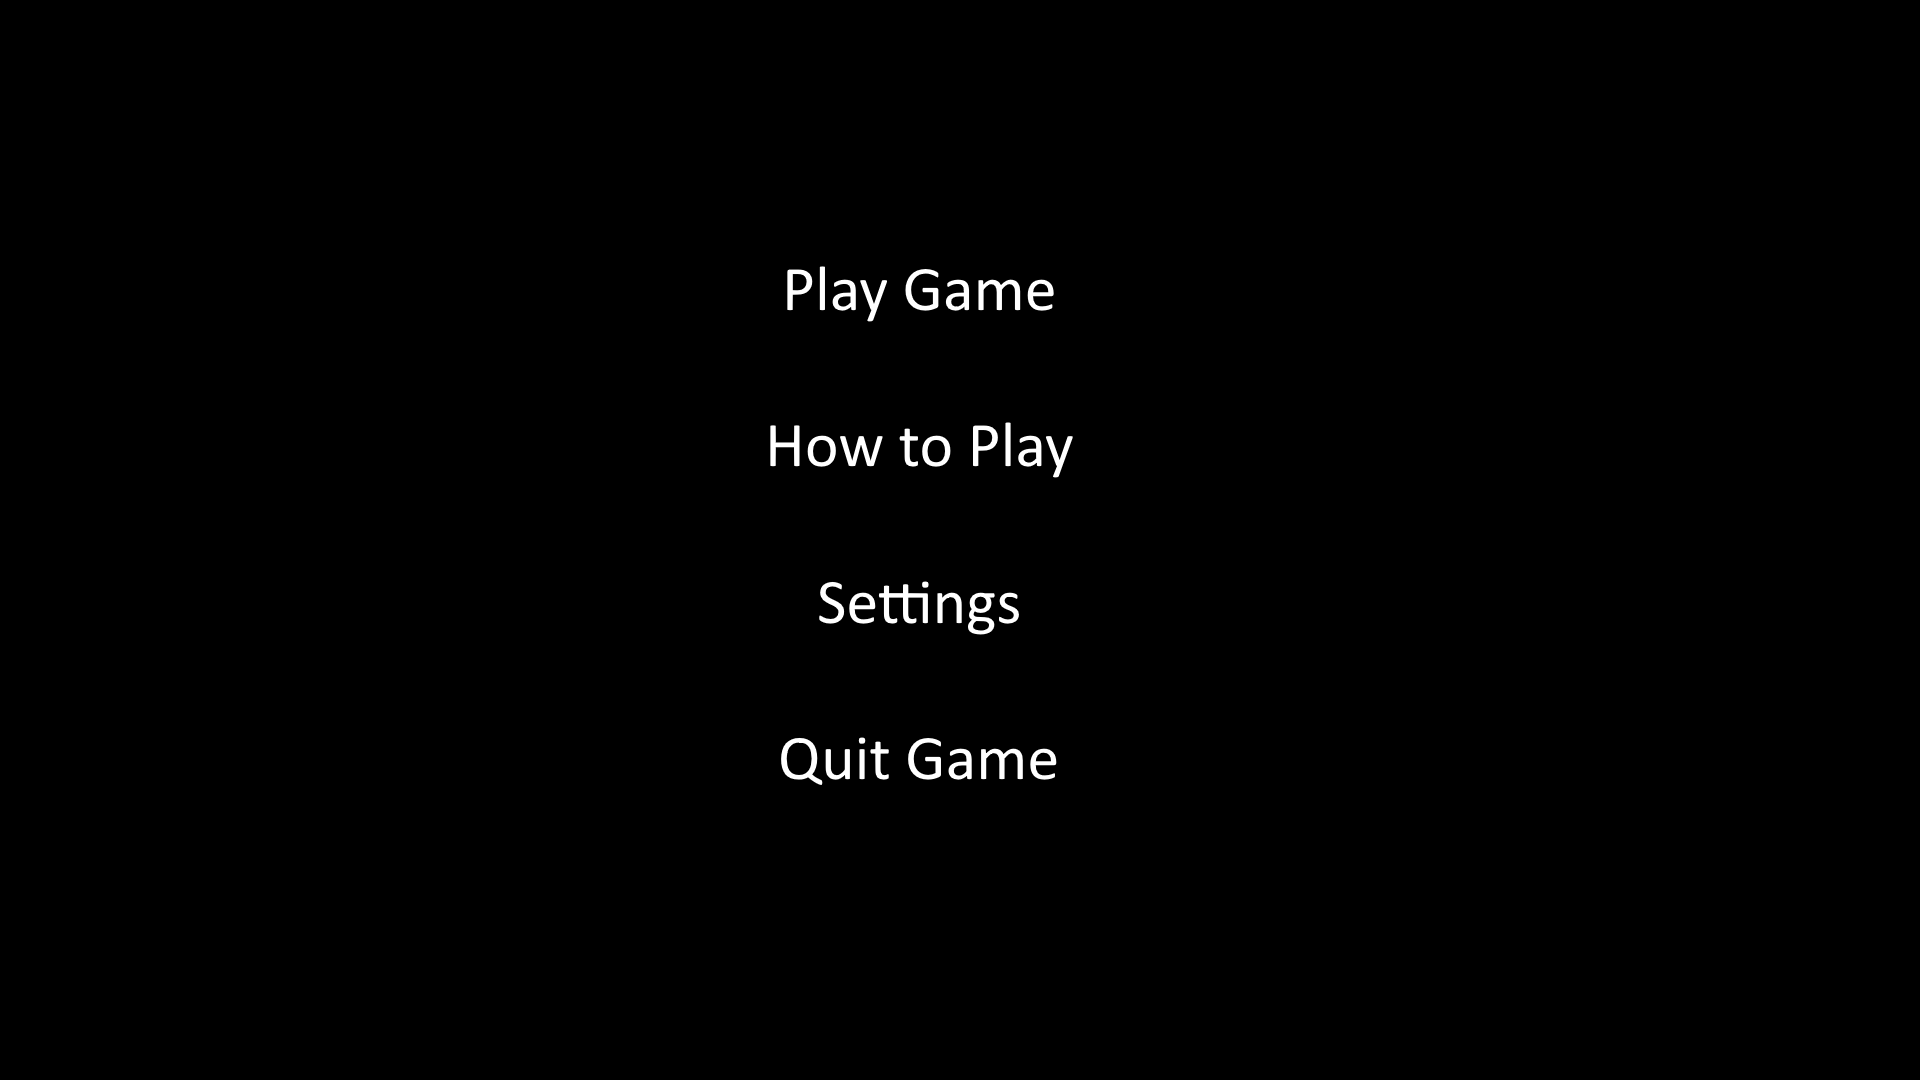
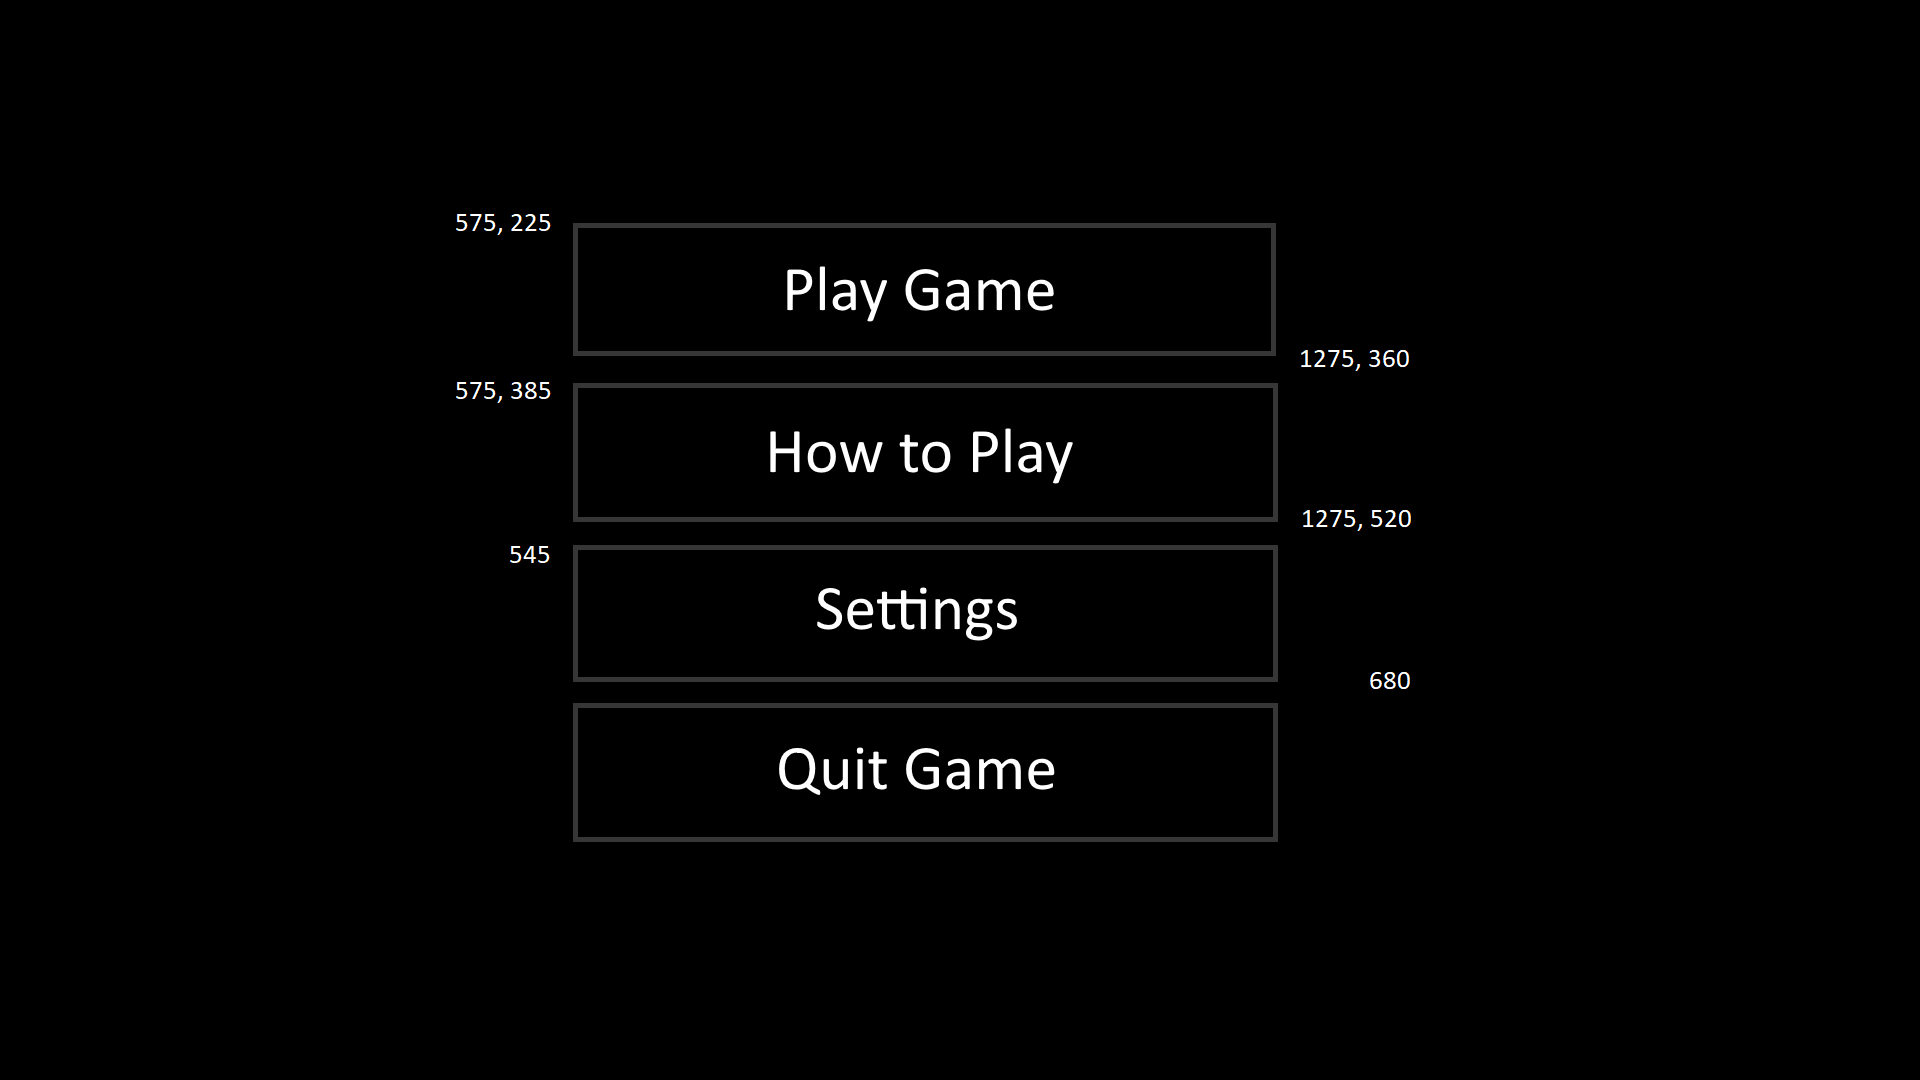
MainMenu selection partially working, UI not yet animated

diff --git a/src/MainMenu.cpp b/src/MainMenu.cpp
@@ -1,64 +1,99 @@
 #include "stdafx.h"
 #include "MainMenu.h"
 
-MainMenu::MenuResult MainMenu::Show(sf::RenderWindow& window)
+MainMenu::MenuOptions MainMenu::Show(sf::RenderWindow& window)
 {
+	selection = Play_Game;
+
 	// Load menu image from file
 	sf::Texture image;
+
 	if (image.loadFromFile("res/img/MainMenu_Temp.png") != true)
 	{
 		throw std::invalid_argument("FAILED TO LOAD: MainMenu");
-		return Exit;
+		return Quit_Game;
 	}
+	
 	sf::Sprite sprite(image);
-
-	//// Set up clickable regions
-	//// Play menu item co-ordinates
-	//MenuItem playButton;
-	//playButton.rect = sf::IntRect(0, 145, 1023, 230);
-	//playButton.action = Play;
-
-	//// Exit menu item coordinates
-	//MenuItem exitButton;
-	//exitButton.rect = sf::IntRect(0, 383, 1023, 180);
-	//exitButton.action = Exit;
-
-	//menuItems.push_back(playButton);
-	//menuItems.push_back(exitButton);
-
 	window.draw(sprite);
+
+	highlight.setSize(sf::Vector2f(700.0f, 135.0f));
+	highlight.setOutlineColor(sf::Color(255, 255, 0));
+	highlight.setFillColor(sf::Color::Transparent);
+	highlight.setOutlineThickness(10.0f);
+	highlight.setPosition(575.0f, 222.0f);
+	window.draw(highlight);
 	window.display();
 
 	return GetMenuResponse(window);
 }
 
-MainMenu::MenuResult MainMenu::HandleClick(int x, int y)
-{
-	std::list<MenuItem>::iterator it;
-
-	for (it = menuItems.begin(); it != menuItems.end(); it++)
-	{
-		sf::IntRect menuItemRect = (*it).rect;
-		if ((*it).rect.contains(x, y))
-		{
-			return (*it).action;
-		}
-	}
-	return Nothing;
-}
-
-MainMenu::MenuResult MainMenu::GetMenuResponse(sf::RenderWindow& window)
+MainMenu::MenuOptions MainMenu::GetMenuResponse(sf::RenderWindow& window)
 {
 	sf::Event menuEvent;
+	bool keyHeld = false;
+	bool eligibleKeyPressed = false;
 
 	while (true)
 	{
 		while (window.pollEvent(menuEvent))
 		{
-			if (menuEvent.type == sf::Event::MouseButtonPressed)
-				return HandleClick(menuEvent.mouseButton.x, menuEvent.mouseButton.y);
-			if (menuEvent.type == sf::Event::Closed)
-				return Exit;
+			switch (selection)
+			{
+			case (Play_Game):
+			{
+				//highlight.setPosition(575.0f, 222.0f);
+			}
+			case (How_to_Play):
+			{
+				//highlight.setPosition(575.0f, 382.0f);
+			}
+			case (Settings):
+			{
+				//highlight.setPosition(575.0f, 542.0f);
+			}
+			case (Quit_Game):
+			{
+				//highlight.setPosition(575.0f, 702.0f);
+			}
+			}
+
+			if (!keyHeld)
+			{
+				if (menuEvent.type == sf::Event::EventType::KeyPressed
+					&& menuEvent.key.code == sf::Keyboard::Space)
+				{
+					eligibleKeyPressed = true;
+					keyHeld = true;
+					return selection;
+				}
+				else if (menuEvent.type == sf::Event::EventType::KeyPressed
+					&& menuEvent.key.code == sf::Keyboard::Down)
+				{
+					eligibleKeyPressed = true;
+					keyHeld = true;
+					selection = static_cast<MenuOptions>((selection + 1) % (Quit_Game + 1));
+				}
+				else if (menuEvent.type == sf::Event::EventType::KeyPressed
+					&& menuEvent.key.code == sf::Keyboard::Up)
+				{
+					eligibleKeyPressed = true;
+					keyHeld = true;
+					selection = static_cast<MenuOptions>((selection - 1) % (Quit_Game + 1));
+				}
+				else if (menuEvent.type == sf::Event::Closed)
+				{
+					eligibleKeyPressed = true;
+					keyHeld = true;
+					return Quit_Game;
+				}
+			}
+			else if (menuEvent.type == sf::Event::EventType::KeyReleased 
+					 && eligibleKeyPressed)
+			{
+				eligibleKeyPressed = false;
+				keyHeld = false;
+			}
 		}
 	}
 }

diff --git a/src/MainMenu.h b/src/MainMenu.h
@@ -1,22 +1,31 @@
 #pragma once
-#include <list>
 
 class MainMenu
 {
 public:
-	enum MenuResult { Nothing, Exit, Play };
-
-	struct MenuItem
+	enum MenuOptions 
 	{
-	public:
-		sf::IntRect rect;
-		MenuResult action;
+		Play_Game,
+		How_to_Play,
+		Settings,
+		Quit_Game
 	};
 
-	MenuResult Show(sf::RenderWindow& window);
+	sf::RectangleShape highlight; 
+
+	// Set up highlight regions
+	// "Play Game" co-ordinates
+
+	// "How to Play" co-ordinates
+
+	// "Settings" co-ordinates
+
+	// "Quit Game" co-ordinates
+
+
+	MenuOptions Show(sf::RenderWindow& window);
 
 private:
-	MenuResult GetMenuResponse(sf::RenderWindow& window);
-	MenuResult HandleClick(int x, int y);
-	std::list<MenuItem> menuItems;
+	MenuOptions selection;
+	MenuOptions GetMenuResponse(sf::RenderWindow& window);
 };

diff --git a/src/Game.cpp b/src/Game.cpp
@@ -33,21 +33,21 @@ void Game::ShowTitleScreen()
 void Game::ShowMainMenu()
 {
 	MainMenu mainMenu;
-	MainMenu::MenuResult result = mainMenu.Show(mainWindow);
+	MainMenu::MenuOptions result = mainMenu.Show(mainWindow);
 	game_objectManager.GetClock().restart();
 
 	switch (result)
 	{
-	case MainMenu::Exit:
+	case MainMenu::Quit_Game:
 	{
 		gameState = Game::Exiting;
 		break;
 	}
-	case MainMenu::Play:
-	{
-		gameState = Game::Playing;
-		break;
-	}
+	//case MainMenu::Play_Game:
+	//{
+	//	gameState = Game::Playing;
+	//	break;
+	//}
 	}
 }
 
